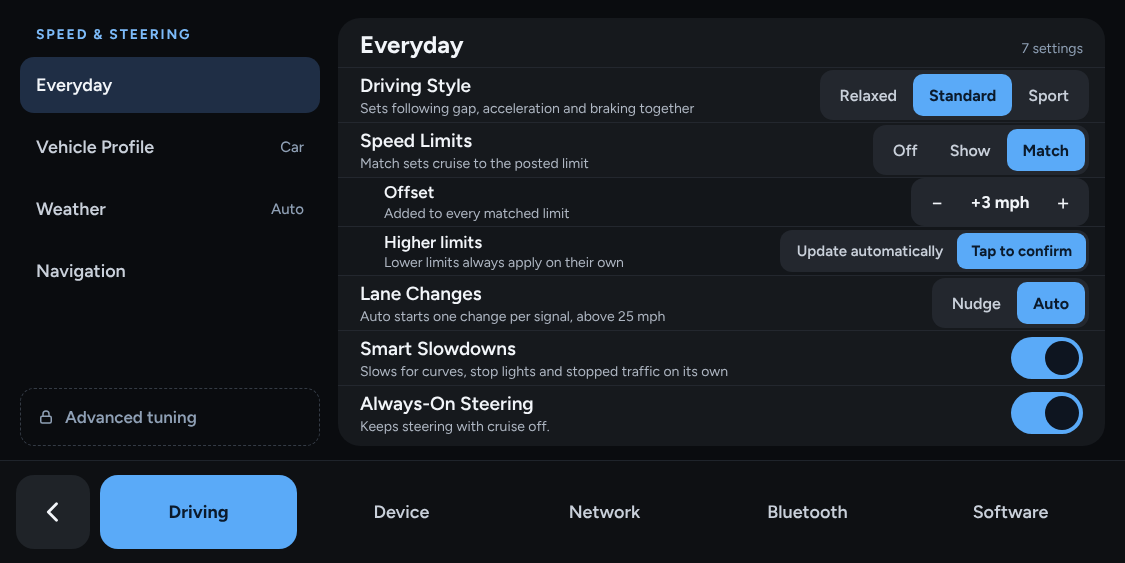
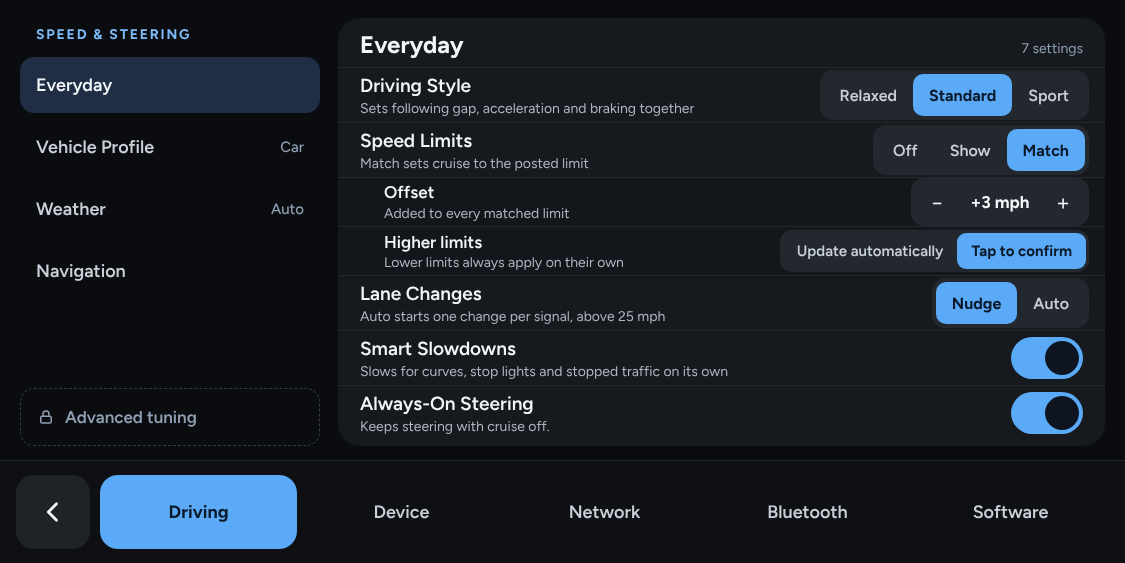
Essentials mocks: example setups use Nudge, the new default
Home and the Driving hub read "Nudge to change lanes", as the build says
it, and Speed & Steering's Lane Changes control is set to Nudge.

Claude-Session: https://claude.ai/code/session_01R4pPc2hcx88Dbjjec1p8WC

Changed region(s): [[0.8089, 0.4831, 0.9644, 0.5737]]

diff --git a/selfdrive/ui/tandem/design/driving.html b/selfdrive/ui/tandem/design/driving.html
@@ -82,8 +82,8 @@ a{color:#5AAAF8}a:hover{color:#8CC4FA}
           <span style="font-size: 14px; color: #AEB6C2;">Auto starts one change per signal, above 25 mph</span>
         </div>
         <div role="radiogroup" aria-label="Lane changes" style="display: flex; background: #23272E; border-radius: 13px; padding: 4px;">
-          <button type="button" role="radio" aria-checked="false" style="font-family: inherit; border: 0; background: transparent; color: #C9D0DA; height: 42px; padding: 0 16px; border-radius: 10px; font-size: 16px; font-weight: 600;">Nudge</button>
-          <button type="button" role="radio" aria-checked="true" style="font-family: inherit; border: 0; background: #5AAAF8; color: #0B1A2B; height: 42px; padding: 0 16px; border-radius: 10px; font-size: 16px; font-weight: 700;">Auto</button>
+          <button type="button" role="radio" aria-checked="true" style="font-family: inherit; border: 0; background: #5AAAF8; color: #0B1A2B; height: 42px; padding: 0 16px; border-radius: 10px; font-size: 16px; font-weight: 700;">Nudge</button>
+          <button type="button" role="radio" aria-checked="false" style="font-family: inherit; border: 0; background: transparent; color: #C9D0DA; height: 42px; padding: 0 16px; border-radius: 10px; font-size: 16px; font-weight: 600;">Auto</button>
         </div>
       </div>
       <div style="display: flex; align-items: center; gap: 16px; padding: 0 22px; height: 54px; border-bottom: 1px solid #23272E;">

diff --git a/selfdrive/ui/tandem/design/home.html b/selfdrive/ui/tandem/design/home.html
@@ -31,7 +31,7 @@ a{color:#7DBBF9}a:hover{color:#A9D3FB}
     <div style="flex-grow: 1; background: #16191D; border-radius: 22px; padding: 26px 28px; display: flex; flex-direction: column; gap: 10px; justify-content: center;">
       <span style="font-size: 15px; font-weight: 700; letter-spacing: 1.6px; color: #6FD8A0;">READY</span>
       <h1 style="margin: 0; font-size: 40px; font-weight: 800; line-height: 1.1;">Press cruise to engage</h1>
-      <span style="font-size: 18px; color: #AEB6C2;">Standard style · Matching speed limits · Auto lane change</span>
+      <span style="font-size: 18px; color: #AEB6C2;">Standard style · Matching speed limits · Nudge to change lanes</span>
     </div>
     <div style="display: grid; grid-template-columns: repeat(2, minmax(0, 1fr)); gap: 14px;">
       <a href="destinations.html" style="text-decoration: none; color: inherit; background: #1A1D22; border-radius: 20px; padding: 18px 20px; display: flex; align-items: center; gap: 16px;">

diff --git a/selfdrive/ui/tandem/design/hub.html b/selfdrive/ui/tandem/design/hub.html
@@ -27,7 +27,7 @@ a{color:#5AAAF8}a:hover{color:#8CC4FA}
         </div>
         <div style="display: flex; flex-direction: column; gap: 5px; min-width: 0;">
           <span style="font-size: 22px; font-weight: 700;">Speed &amp; Steering</span>
-          <span style="font-size: 15px; color: #AEB6C2;">Standard · Auto lane change</span>
+          <span style="font-size: 15px; color: #AEB6C2;">Standard · Nudge to change lanes</span>
           <span style="font-size: 15px; color: #7DBBF9;">Matching speed limits</span>
         </div>
       </a>
